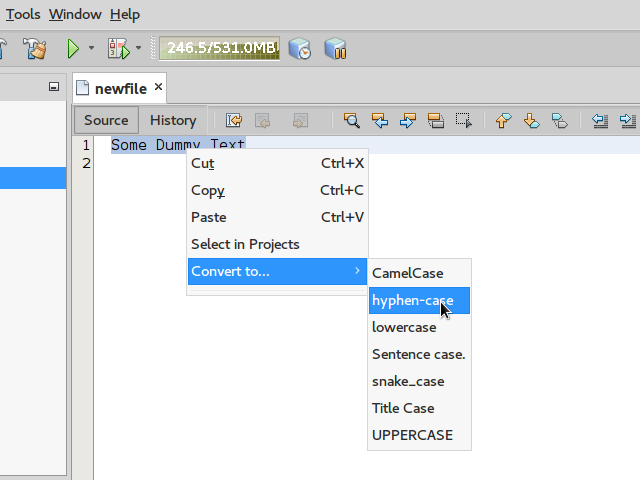
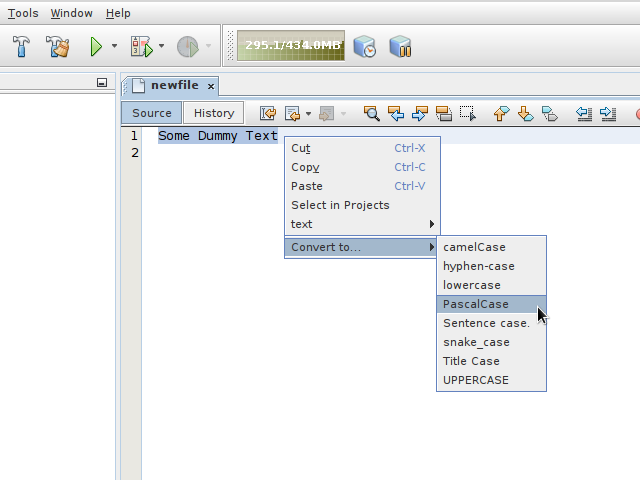
Update enabled menu screenshot

diff --git a/README.md b/README.md
@@ -27,7 +27,7 @@ In the editor panel:
 3. Open the `Convert To...` submenu
 4. Click on the converter of your choice
 
-![Convert To...](/resources/enabled-menu.png)
+![Convert To... enabled](/resources/enabled-menu.png)
 
 Please note that if no text is selected, the menu is disabled.
 

diff --git a/CHANGELOG.md b/CHANGELOG.md
@@ -5,6 +5,10 @@ This project adheres to [Semantic Versioning](http://semver.org/).
 
 ## [Unreleased][unreleased]
 
+### Changed
+
+- Update enabled menu screenshot
+
 ## 0.1.1 - 2019-05-24
 
 ### Changed
